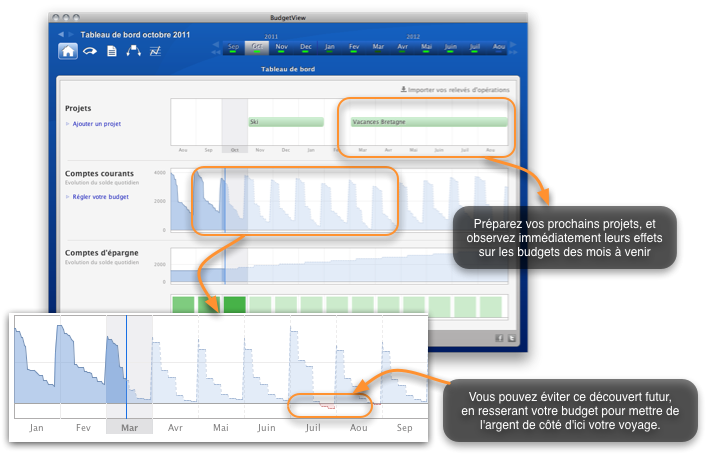
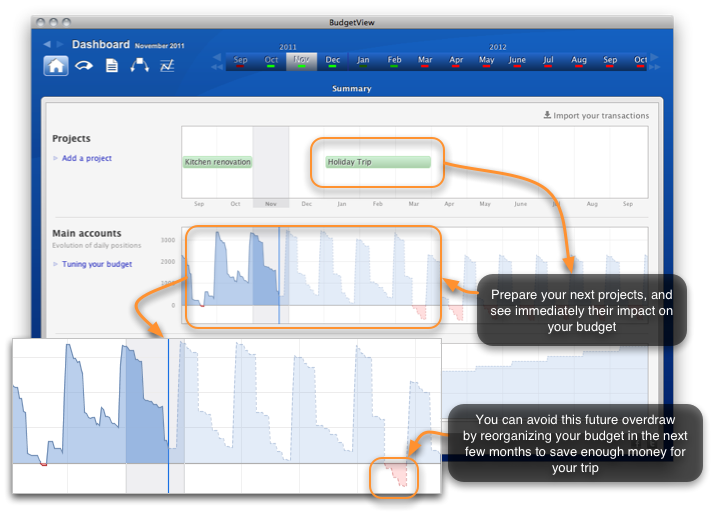
Traduction des images 'Tour' du site

diff --git a/picsou/picsou/website/fr/content/support/change_log.html b/picsou/picsou/website/fr/content/support/change_log.html
@@ -2,17 +2,23 @@
 
   <p>Voici les dernières évolutions de BudgetView&nbsp;:</p>
 
-  <h2>version 2.13 <span class="date">18 octobre 2011</span></h2>
+  <h2>version 2.14 <span class="date">31 octobre 2011</span></h2>
   <ul>
-    <li>Clarification de l'écran d'import dans le cas où il y a plusieurs comptes dans un même fichier. </li>
-    <li>Correction d'un défaut qui pouvait causer l'invalidation répétée du code d'activation. </li>
+    <li>Import des catégories dans les fichiers Money</li>
+    <li>Correction d'une erreur survenant lors de l'import d'opérations pour un compte ayant été supprimé.</li>
+    <li>Correction d'une erreur survenant dans certains cas de suppression d'enveloppe (merci Bernard)</li>
   </ul>
-
   <p><b>Pour profiter de ces évolutions</b>, il vous suffit de relancer BudgetView, attendre
     quelques secondes, puis suivre les instructions qui s'affichent.
     Si vous n'avez pas encore BudgetView,
     <a title="Téléchargez BudgetView" href="http://www.mybudgetview.fr/telechargement">installez-le</a> dès maintenant&nbsp;!
   </p>
+
+  <h2>version 2.13 <span class="date">18 octobre 2011</span></h2>
+  <ul>
+    <li>Clarification de l'écran d'import dans le cas où il y a plusieurs comptes dans un même fichier. </li>
+    <li>Correction d'un défaut qui pouvait causer l'invalidation répétée du code d'activation. </li>
+  </ul>
 
   <h2>version 2.12 <span class="date">9 octobre 2011</span></h2>
   <ul>

diff --git a/picsou/picsou/website/en/content/front_page.html b/picsou/picsou/website/en/content/front_page.html
@@ -47,15 +47,15 @@
           <td class="left">
 
             <div id="screenshots-gallery">
-              <a class="gallery" rel="group1" href="files/images/app/vue_budget.png">
+              <a class="gallery" rel="group1" href="files/images/app/view_budget.png">
                 <img src="files/images/front/screenshot_magnifier.png" alt="La vue Budget"
                      width="312" height="206"/>
               </a>
 
-              <a class="gallery" rel="group1" href="files/images/app/vue_accueil.png"></a>
-              <a class="gallery" rel="group1" href="files/images/app/vue_comptes.png" ></a>
-              <a class="gallery" rel="group1" href="files/images/app/vue_categorisation.png"></a>
-              <a class="gallery" rel="group1" href="files/images/app/vue_evolution.png" ></a>
+              <a class="gallery" rel="group1" href="files/images/app/view_home.png"></a>
+              <a class="gallery" rel="group1" href="files/images/app/view_accounts.png" ></a>
+              <a class="gallery" rel="group1" href="files/images/app/view_categorization.png"></a>
+              <a class="gallery" rel="group1" href="files/images/app/view_analysis.png" ></a>
             </div>
 
             <script type="text/javascript">

diff --git a/picsou/picsou/website/fr/content/front_page.html b/picsou/picsou/website/fr/content/front_page.html
@@ -55,7 +55,7 @@
               <a class="gallery" rel="group1" href="files/images/app/vue_accueil.png"></a>
               <a class="gallery" rel="group1" href="files/images/app/vue_comptes.png" ></a>
               <a class="gallery" rel="group1" href="files/images/app/vue_categorisation.png"></a>
-              <a class="gallery" rel="group1" href="files/images/app/vue_evolution.png" ></a>
+              <a class="gallery" rel="group1" href="files/images/app/vue_analyse.png" ></a>
             </div>
 
             <script type="text/javascript">

diff --git a/picsou/picsou/src/test/java/org/designup/picsou/functests/DemoGenerationTest.java b/picsou/picsou/src/test/java/org/designup/picsou/functests/DemoGenerationTest.java
@@ -24,7 +24,7 @@ public class DemoGenerationTest extends LoggedInFunctionalTestCase {
   private int firstMonth;
 
   protected void setUp() throws Exception {
-    Locale.setDefault(Lang.EN);
+    Locale.setDefault(Lang.ROOT);
 
     thirdMonth = Month.getMonthId(new Date());
     secondMonth = Month.previous(thirdMonth);
@@ -47,10 +47,9 @@ public class DemoGenerationTest extends LoggedInFunctionalTestCase {
 
     System.setProperty("uispec4j.test.library", "junit");
 
-    Lang.setLocale(Lang.ROOT);
+    Lang.setLocale(Lang.EN);
 
     DemoGenerationTest test = createTest();
-    Lang.setLocale(Lang.EN);
     test.test();
     test.tearDown();
 
@@ -154,6 +153,8 @@ public class DemoGenerationTest extends LoggedInFunctionalTestCase {
       .addTransaction(first(7), -57.00, transaction("health1"))
       .addTransaction(second(8), -35.00, transaction("health.doctor"))
       .addTransaction(third(19), 25.80, transaction("health.reimbursements"))
+      .addTransaction(first(19), 900, transaction("house2"))
+      .addTransaction(second(17), 500, transaction("house2"))
 
         // EXTRAS
       .addTransaction(second(28), -680.50, transaction("plumber"))
@@ -234,6 +235,7 @@ public class DemoGenerationTest extends LoggedInFunctionalTestCase {
       .validate();
 
     //  ================ SAVINGS   ================
+
     views.selectHome();
     savingsAccounts.createNewAccount()
       .setAccountName(account("savings"))
@@ -281,7 +283,7 @@ public class DemoGenerationTest extends LoggedInFunctionalTestCase {
 
     views.selectBudget();
     timeline.selectMonth(Month.toString(secondMonth));
-    budgetView.recurring.editSeries(transaction("electricity")).setTwoMonths().validate();
+    budgetView.recurring.editSeries(series("electricity")).setTwoMonths().validate();
 
     timeline.selectMonth(Month.toString(secondMonth));
     budgetView.variable.editSeries(series("groceries"))
@@ -301,12 +303,24 @@ public class DemoGenerationTest extends LoggedInFunctionalTestCase {
       .setAmount(150)
       .validate();
 
+
+    //======== "HOUSE RENOVATION" PROJECT ===========
+
+    budgetView.extras.createProject()
+      .setName(project("house"))
+      .setItem(0, "First", firstMonth, -900.00)
+      .addItem(1, "Second", secondMonth, -600.00)
+      .validate();
+
+
+    //======== "TRIP" PROJECT ===========
+
     int holidaysMonth1 = Month.next(thirdMonth, 2);
     int holidaysMonth2 = Month.next(thirdMonth, 3);
     int holidaysMonth3 = Month.next(thirdMonth, 4);
     timeline.selectMonth(Month.toString(holidaysMonth3));
     budgetView.extras.createProject()
-      .setName(series("trip"))
+      .setName(project("trip"))
       .setItem(0, "Accomodation reservation", holidaysMonth1, -600.00)
       .addItem(1, "Flight tickets", holidaysMonth1, -450.00)
       .addItem(2, "Equipment", holidaysMonth2, -400.00)
@@ -453,12 +467,16 @@ public class DemoGenerationTest extends LoggedInFunctionalTestCase {
     return Lang.get("demo.transactions." + keySuffix, args);
   }
 
-  private String series(String keySuffix, String... args) {
-    return Lang.get("demo.series." + keySuffix, args);
+  private String series(String keySuffix) {
+    return Lang.get("demo.series." + keySuffix);
   }
 
-  private String account(String keySuffix, String... args) {
-    return Lang.get("demo.account." + keySuffix, args);
+  private String account(String keySuffix) {
+    return Lang.get("demo.account." + keySuffix);
+  }
+
+  private String project(String keySuffix) {
+    return Lang.get("demo.project." + keySuffix);
   }
 
   private String mainAccounts() {

diff --git a/picsou/picsou/src/test/java/org/designup/picsou/functests/checkers/OperationChecker.java b/picsou/picsou/src/test/java/org/designup/picsou/functests/checkers/OperationChecker.java
@@ -268,7 +268,7 @@ public class OperationChecker {
 
   public Trigger getBackupTrigger() {
     MenuItem fileMenu = window.getMenuBar().getMenu("File");
-    return fileMenu.getSubMenu("Backup").triggerClick();
+    return fileMenu.getSubMenu(Lang.get("backup")).triggerClick();
   }
 
   public String backup(TestCase test) {
@@ -360,7 +360,7 @@ public class OperationChecker {
   }
 
   public Trigger getRestoreTrigger() {
-    return getFileMenu().getSubMenu("Restore").triggerClick();
+    return getFileMenu().getSubMenu(Lang.get("restore")).triggerClick();
   }
 
   public Trigger getRestoreSnapshotTrigger() {
